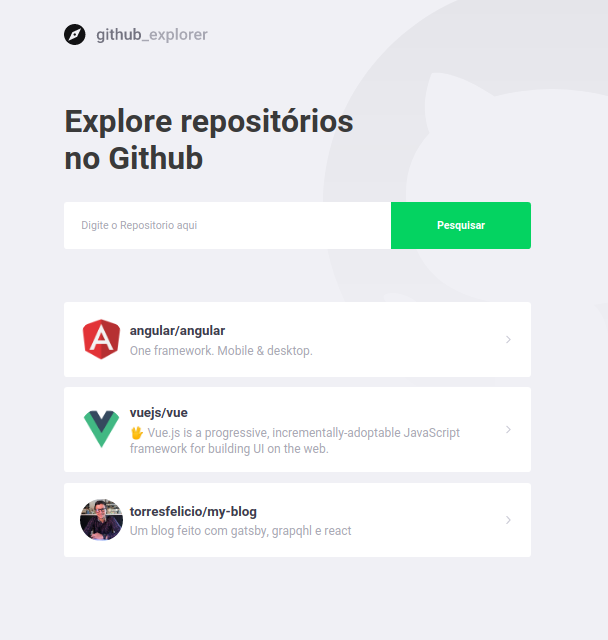
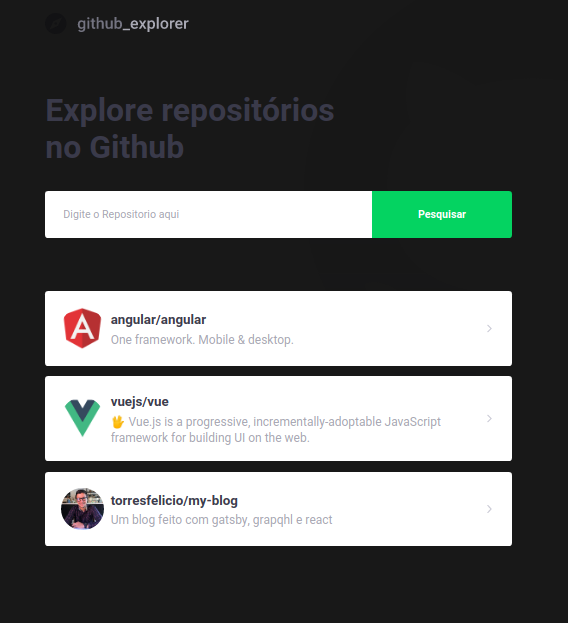
modo dark

diff --git a/src/pages/Dashboard/styles.ts b/src/pages/Dashboard/styles.ts
@@ -7,7 +7,7 @@ interface FormProps {
 
 export const Title = styled.h1`
   font-size: 48px;
-  color: #3A3A3A;
+  color: #3A3A4A;
   max-width: 450px;
   line-height: 56px;
 
@@ -26,7 +26,7 @@ export const Form = styled.form<FormProps>`
     border: 0;
     border-radius: 5px 0 0 5px;
     color: #3a3a3a;
-    border: 2px solid #fff;
+    border: 3px solid #fff;
     border-right: 0px;
 
     ${(props) =>

diff --git a/src/styles/global.ts b/src/styles/global.ts
@@ -11,7 +11,7 @@ export default createGlobalStyle`
   }
 
   body {
-    background: #F0F0F5 url(${githubBackgroud}) no-repeat 70% top;
+    background: #181818 url(${githubBackgroud}) no-repeat 70% top;
     -webkit-font-smoothing: antialiased;
   }
 
